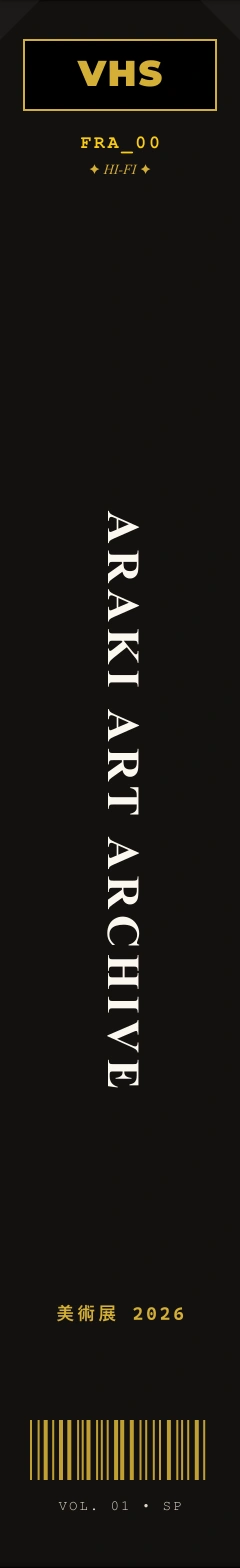
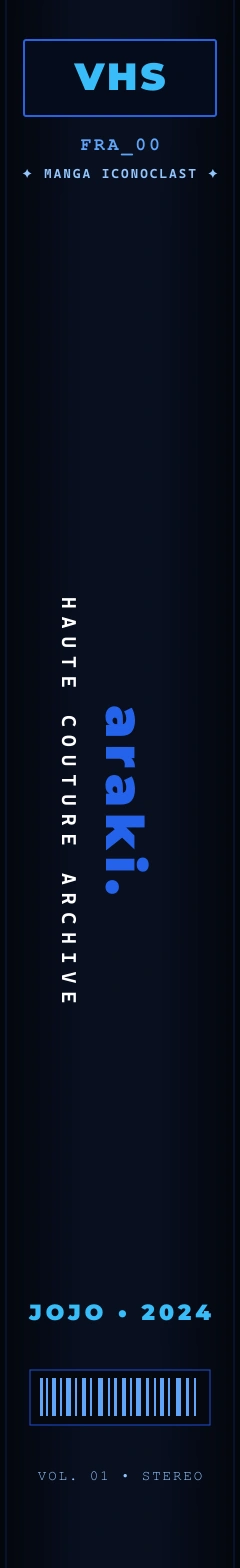
feat: apply user bespoke Araki manga iconoclast poster and calibrate slim VHS case thickness

diff --git a/src/data/tapes.ts b/src/data/tapes.ts
@@ -90,9 +90,9 @@ export const TAPE_PROJECTS: TapeProject[] = [
       "Haute-couture editorial web archive exploring Hirohiko Araki’s intersection with high-fashion, classical sculpture, and Swiss architectural grid design.",
     story:
       "Structured upon a persistent 12-column Swiss modernist grid overlay with kinetic GSAP timelines, dual-palette chromatic state machine, expanding anatomical accordions, and a live fashion capital world clock.",
-    color: "#221d1b",
+    color: "#080f24",
     wearSeed: 198701,
-    image: "/projects/araki-art.png",
+    image: "/projects/Araki_ Manga Iconoclast Poster.png",
     liveUrl: "https://araki-art.vercel.app",
     githubUrl: "https://github.com/FerrelHD/Araki-Art",
     metrics: [

diff --git a/src/lib/math.ts b/src/lib/math.ts
@@ -7,10 +7,11 @@ export const CRT_CONSTANTS = {
 
 /**
  * Millimetric physical metrics for vertical portrait VHS sleeves & tape cassettes.
+ * Slim cardboard sleeve profile matching authentic Arc Marumo reference (14mm case, 10mm cassette).
  */
 export const VHS_METRICS = {
-  CASE: { w: 130, h: 196, t: 30 },
-  TAPE: { w: 120, h: 185, t: 25 },
+  CASE: { w: 130, h: 196, t: 14 },
+  TAPE: { w: 120, h: 185, t: 10 },
   PEEK: 42, // Proud exposure of the twin spool windows and cassette label
   PEEK_IDLE: 14, // Subtle peek when unselected
   ARC_RADIUS: 900, // Radius of the tape carousel cylinder in 3D units
